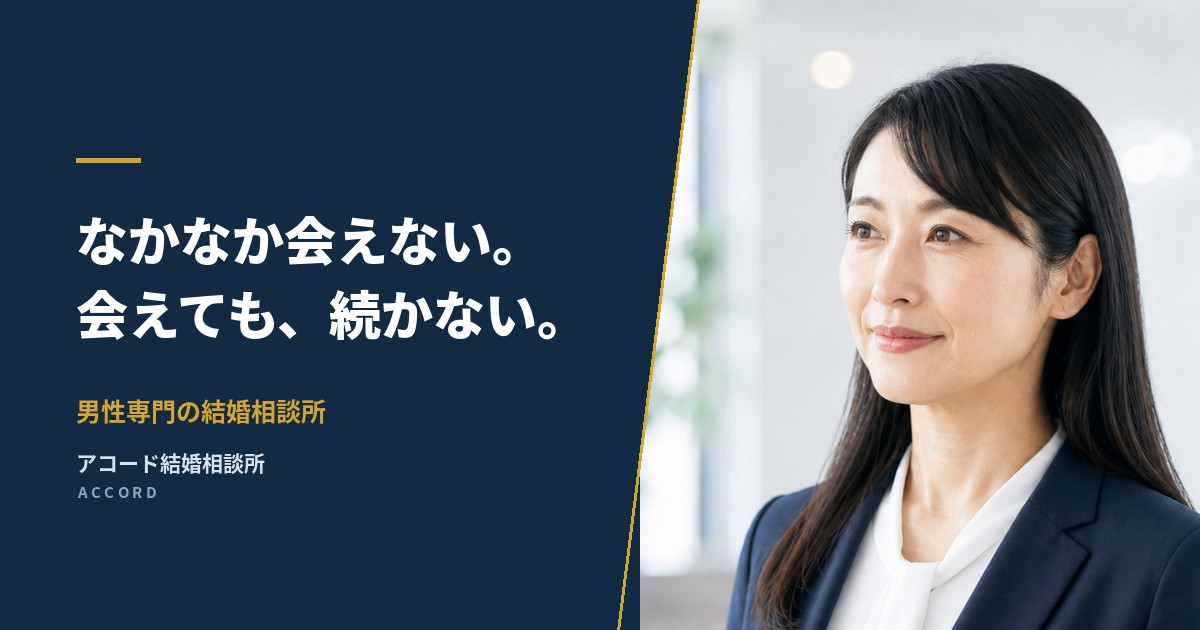
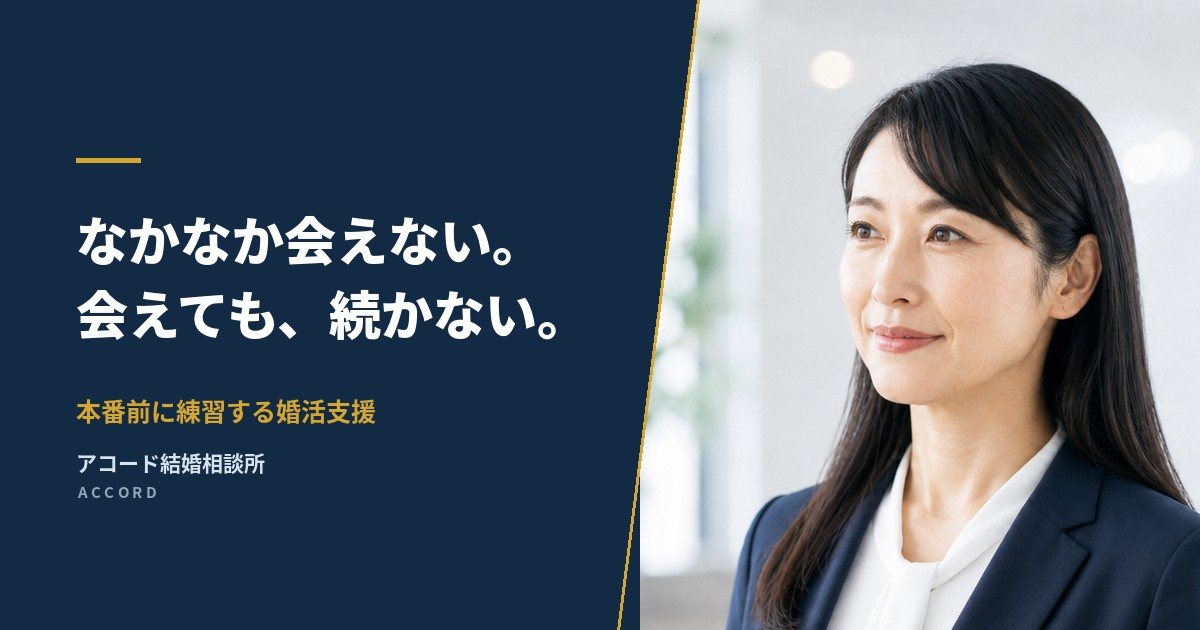
Add files via upload

Changed region(s): [[0.0617, 0.6333, 0.3392, 0.6937]]

diff --git a/index.html b/index.html
@@ -3,8 +3,8 @@
 <head>
 <meta charset="utf-8">
 <meta name="viewport" content="width=device-width, initial-scale=1">
-<title>男性専門の結婚相談所｜アコード結婚相談所</title>
-<meta name="description" content="男性専門の結婚相談所です。そもそも会えない、会えても次につながらない。IBJの会員ネットワークで結婚を考える相手との出会いを広げ、プロフィール・お見合い・LINE・デートを実践型プログラムで改善します。30分の無料相談をオンラインで実施しています。">
+<title>本番前に練習する婚活支援｜アコード結婚相談所</title>
+<meta name="description" content="実績のある実践型の婚活コーチングを行う結婚相談所です。そもそも会えない、会えても次につながらない。IBJの会員ネットワークで結婚を考える相手との出会いを広げ、プロフィール・お見合い・LINE・デートを実践型プログラムで改善します。30分の無料相談をオンラインで実施しています。">
 <link rel="canonical" href="{{公開URL}}">
 <meta name="robots" content="index, follow">
 
@@ -329,6 +329,7 @@ h3,.h3{font-size:var(--fs-h3);font-weight:700;line-height:var(--lh-h3);color:var
   background:var(--gold-soft);color:var(--navy-deep);font-size:12.5px;font-weight:700;
 }
 .hero__label i{font-style:normal;color:var(--gold-hover);font-weight:700}
+.hero__label .lbl-r{display:inline-flex;align-items:center;gap:8px}
 .hero h1{margin-bottom:24px}
 .hero__sub{font-size:calc(var(--fs-body) + 1px);font-weight:500;color:var(--t-body);line-height:1.85}
 .hero__sub + .hero__sub{margin-top:14px}
@@ -549,11 +550,44 @@ h3,.h3{font-size:var(--fs-h3);font-weight:700;line-height:var(--lh-h3);color:var
   margin-top:20px;padding:16px 18px;border-radius:12px;background:var(--white);
   border:1px solid var(--line);font-size:12.5px;line-height:1.8;color:var(--t-sub);
 }
-.bridge{
-  margin-top:26px;padding:20px 22px;border-radius:var(--card-r);
-  background:var(--navy-deep);color:var(--t-white);font-size:16px;font-weight:700;line-height:1.8;
+.eq{
+  margin-top:28px;padding:24px 20px;border-radius:var(--card-r);
+  background:var(--navy-deep);color:var(--t-white);
 }
-.bridge b{color:var(--gold)}
+@media (min-width:768px){ .eq{padding:28px 30px} }
+.eq__lead{
+  display:flex;align-items:center;justify-content:center;gap:10px;
+  font-size:13px;font-weight:700;letter-spacing:.1em;color:var(--gold-soft);margin-bottom:14px;
+}
+@media (min-width:768px){ .eq__lead{margin-bottom:18px} }
+.eq__lead i{font-style:normal;font-family:var(--font-en);font-size:17px;color:var(--gold)}
+
+.eq__row{display:grid;gap:6px}
+@media (min-width:768px){
+  .eq__row{display:flex;align-items:stretch;justify-content:center;gap:12px}
+}
+.eq__term{
+  display:flex;flex-direction:row;align-items:center;justify-content:center;gap:10px;
+  padding:12px 14px;border-radius:12px;text-align:center;
+  background:rgba(255,255,255,.08);border:1px solid rgba(255,255,255,.18);
+}
+@media (min-width:768px){
+  .eq__term{flex:1 1 0;min-width:0;flex-direction:column;gap:8px;padding:18px 14px}
+}
+.eq__term b{font-size:16px;font-weight:700;line-height:1.5;color:var(--t-white)}
+@media (min-width:768px){ .eq__term b{font-size:17px} }
+.eq__term span{
+  font-size:11.5px;font-weight:700;letter-spacing:.1em;color:var(--gold);
+  padding:2px 10px;border-radius:999px;background:rgba(213,166,47,.16);
+}
+.eq__x{
+  display:flex;align-items:center;justify-content:center;flex:none;line-height:1;
+  font-style:normal;font-family:var(--font-en);font-size:16px;font-weight:700;color:var(--gold);
+}
+.eq__note{
+  margin-top:16px;text-align:center;font-size:14.5px;line-height:1.8;color:#D5E2EE;
+}
+.eq__note b{color:var(--t-white)}
 
 .stats{display:grid;gap:16px;margin-bottom:36px}
 @media (min-width:640px){ .stats{grid-template-columns:1fr 1fr;gap:24px} }
@@ -946,7 +980,7 @@ h3,.h3{font-size:var(--fs-h3);font-weight:700;line-height:var(--lh-h3);color:var
     </div>
 
     <div class="hero__copy">
-      <p class="hero__label" data-ibj hidden><b>IBJ正規加盟店</b><i aria-hidden="true">&times;</i>男性専門の結婚相談所</p>
+      <p class="hero__label" data-ibj hidden><b>IBJ正規加盟店</b><span class="lbl-r"><i aria-hidden="true">&times;</i>本番前に練習する婚活支援</span></p>
 
       <h1>なかなか会えない。<br>会えても、続かない。</h1>
 
@@ -1094,7 +1128,17 @@ h3,.h3{font-size:var(--fs-h3);font-weight:700;line-height:var(--lh-h3);color:var
       <p>相手の結婚意思やプロフィール情報を一から確かめることに時間を使うのではなく、結婚を目指す相手との関係づくりに集中できる環境です。</p>
     </div>
 
-    <p class="bridge reveal"><b>IBJ</b>が出会いの機会を広げ、<b>アコード</b>が選ばれる準備と、会った後の関係づくりを支援します。</p>
+    <div class="eq reveal">
+      <p class="eq__lead">婚活の前進<i aria-hidden="true">＝</i></p>
+      <div class="eq__row">
+        <div class="eq__term"><b>出会いの機会</b><span>IBJ</span></div>
+        <i class="eq__x" aria-hidden="true">&times;</i>
+        <div class="eq__term"><b>選ばれるための準備</b><span>アコード</span></div>
+        <i class="eq__x" aria-hidden="true">&times;</i>
+        <div class="eq__term"><b>関係を育てる力</b><span>アコード</span></div>
+      </div>
+      <p class="eq__note">IBJが<b>出会いの機会</b>を広げ、アコードが<b>残りの2つ</b>を支援します。</p>
+    </div>
 
     <p class="src reveal">出典：IBJ公式サイト（<a href="https://www.ibjapan.jp/" target="_blank" rel="noopener">www.ibjapan.jp</a>）。登録会員数、加盟相談所数、お見合い成立数は2026年7月時点または同月実績。年間成婚者数は2025年実績。<br>ご利用いただける会員数やお見合い成立の可能性は、年齢、地域、希望条件等によって異なります。</p>
   </div>
@@ -1829,7 +1873,7 @@ h3,.h3{font-size:var(--fs-h3);font-weight:700;line-height:var(--lh-h3);color:var
           <svg width="26" height="26" viewBox="0 0 32 32" aria-hidden="true"><rect width="32" height="32" rx="7" fill="#1F3A5F"/><path d="M9 20.5c2.6-7 10.4-7 13 0" stroke="#D5A62F" stroke-width="2.4" fill="none" stroke-linecap="round"/></svg>
           <span class="logo-txt"><b>アコード結婚相談所</b><i>ACCORD</i></span>
         </p>
-        <p style="line-height:1.8">出会いを、関係に変える。<br>男性専門の結婚相談所です。会えない・続かない原因を見える化し、練習と実践で改善します。</p>
+        <p style="line-height:1.8">出会いを、関係に変える。<br>実践型の婚活コーチングを行う結婚相談所です。会えない・続かない原因を見える化し、練習と実践で改善します。</p>
 
         <p class="ft__base">
           <svg width="17" height="17" viewBox="0 0 24 24" fill="none" stroke="currentColor" stroke-width="1.8" stroke-linecap="round" stroke-linejoin="round" aria-hidden="true"><path d="M20 10.2c0 5.4-8 11.4-8 11.4s-8-6-8-11.4a8 8 0 0 1 16 0Z"/><circle cx="12" cy="10" r="2.8"/></svg>

diff --git a/README.md b/README.md
@@ -873,3 +873,152 @@ GA4の探索レポートで、**CASE A／CASE B のカードを見た人が、IB
 ### ご確認ください
 
 面談の追加やオプションで費用が発生する場合は、**その条件を特定商取引法に基づく表記に必ず記載してください。** LP上で追記が必要であればお知らせください。
+
+
+---
+
+## 29. 男女を絞らない方向への調整（v17）
+
+「見た目は男性向けのままだが、女性も受け入れる」方針に合わせ、**明示的に男性限定と読める3箇所**だけを変更しました。
+
+| 場所 | 変更前 | 変更後 |
+|---|---|---|
+| ヒーローの肩見出し | IBJ正規加盟店 × 男性専門の結婚相談所 | **IBJ正規加盟店 × 実績のある実践型婚活コーチング** |
+| メタディスクリプション 冒頭 | 男性専門の結婚相談所です。 | **実績のある実践型の婚活コーチングを行う結婚相談所です。** |
+| フッターの説明文 | 男性専門の結婚相談所です。 | **実践型の婚活コーチングを行う結婚相談所です。** |
+
+肩見出しは、折り返し時に「×」だけが行末に残らないよう、「×」と後半のテキストをひとまとまりにしています（375px以下では2行になります）。
+
+### そのまま残した「男性」の記述
+
+事実に基づく記述なので変更していません。「これまで男性向けの育成プログラムをやってきた」ことと、「いま男女どちらも受け入れる」ことは両立します。
+
+- 実績セクションの見出し「男性向け育成プログラムで、20数名を個別に指導してきました。」
+- 対象条件「交際経験がまったくない、またはほとんどない28歳から44歳の男性でした。」
+- 経歴「婚活サービスの運営会社で、男性向け育成プログラムの責任者を務めました。」
+- 注記「男性向け育成プログラムでの個別指導実績です。」
+- 事例3件（すべて男性）
+- 「向いていない方」の「女性を攻略する方法だけを求める方」
+
+### まだ「男性専門」が残っている2箇所（未変更）
+
+ご指示に含まれていなかったため、そのままにしています。
+
+| 場所 | 現在の表示 | 影響 |
+|---|---|---|
+| `<title>` | 男性専門の結婚相談所｜アコード結婚相談所 | **検索結果とブラウザのタブに表示されます。もっとも人目に触れる箇所です** |
+| `ogp.jpg` の中の文字 | 男性専門の結婚相談所 | SNSでシェアされたときのカード画像に表示されます |
+
+変更する場合の案です。
+
+- `<title>` → `実践型の婚活コーチング｜アコード結婚相談所`
+- `ogp.jpg` のゴールドの行 → `実践型の婚活コーチング`（画像の再作成が必要です）
+
+ご指示いただければ、どちらもすぐ差し替えます。
+
+
+---
+
+## 30. 訴求文言を確定（v18）
+
+「本番前に練習する婚活支援」で3箇所そろえました。**「男性専門」の記載はLP内から完全になくなりました。**
+
+| 場所 | 変更後 |
+|---|---|
+| ヒーローの肩見出し | IBJ正規加盟店 × **本番前に練習する婚活支援** |
+| `<title>` | **本番前に練習する婚活支援**｜アコード結婚相談所 |
+| `ogp.jpg` のゴールド行 | **本番前に練習する婚活支援** |
+
+肩見出しは360px以上で1行に収まります（320pxのみ2行）。**`ogp.jpg` も差し替えが必要です。**
+
+### 変更していない箇所
+
+- メタディスクリプション冒頭「実績のある実践型の婚活コーチングを行う結婚相談所です。」
+- フッターの説明文「実践型の婚活コーチングを行う結婚相談所です。」
+
+どちらも前版で性別表現を外した後の文言で、新しい肩見出しと矛盾しません。文言を「本番前に練習する」に揃えたい場合はお知らせください。
+
+---
+
+## 31. 「3つの要素」セクションについての検討結果
+
+marriage002 にあった「婚活を前へ進めるには、3つの要素が必要です。」のセクション（出会いの機会 × 選ばれるための準備 × 関係を育てる力）について、**現行LPへの追加は見送りを推奨**します。**未実装です。**
+
+### 見送りを推奨する理由
+
+**1. 結論部分が、すでに同じ文言でLPに存在します**
+
+IBJネットワークセクションの締めに、次の一文があります。
+
+> IBJが出会いの機会を広げ、アコードが選ばれる準備と、会った後の関係づくりを支援します。
+
+これは3要素セクションの締めとほぼ同一です。同じ結論を2回言うことになります。
+
+**2. 3要素のうち2つは、すでに「悩みのタイプ」で提示済みです**
+
+- 出会いの機会 → CASE「出会いの段階で止まっている」
+- 関係を育てる力 → CASE「関係づくりの段階で止まっている」
+
+読者は既に自分の位置を選んだあとなので、同じ分類をもう一度見せられる形になります。
+
+**3. 説明セクションが4つ続くことになります**
+
+現在は 悩みのタイプ → 問題の原因 → IBJネットワーク と、解決策に入る前に3つの説明が並んでいます。ここに4つ目を挟むと、Before/Afterまでの距離がさらに伸びます。デスクトップで約19,000px、スマホで約30,000pxある長いページなので、前半の説明を増やすのは離脱リスクが上がります。
+
+### ただし、1つだけ拾う価値があります
+
+3要素のうち**「選ばれるための準備」だけは、現行LPに独立した居場所がありません。** 写真・服装・プロフィール・申込み方針は、料金の説明（初期費用が高い理由）まで下がらないと出てきません。
+
+そこで、**新セクションは作らず、かけ算の式だけを1本の帯としてIBJネットワークセクションの締めと差し替える**案を提案します。
+
+```
+婚活の前進 ＝ 出会いの機会 × 選ばれるための準備 × 関係を育てる力
+        （IBJ）        （アコード）      （アコード）
+```
+
+- 追加される高さは約80px（新セクションなら約700px）
+- 「選ばれるための準備」が中盤で提示されるため、後半の初期費用の説明が腑に落ちやすくなります
+- 既存の締め文と入れ替えるので、重複は発生しません
+
+実装をご希望でしたらお知らせください。
+
+
+---
+
+## 32. かけ算の帯を実装（v19）
+
+IBJネットワークセクションの締めにあった一文を、**3要素のかけ算を表す帯**に差し替えました。**新しいセクションは作っていません。**
+
+### 差し替え前後
+
+**変更前**
+> IBJが出会いの機会を広げ、アコードが選ばれる準備と、会った後の関係づくりを支援します。
+
+**変更後**
+```
+              婚活の前進 ＝
+
+  [ 出会いの機会 ]  ×  [ 選ばれるための準備 ]  ×  [ 関係を育てる力 ]
+      IBJ                アコード              アコード
+
+    IBJが出会いの機会を広げ、アコードが残りの2つを支援します。
+```
+
+### 設計の意図
+
+- **各項目の下（スマホでは横）に担当をチップで表示**しました。「IBJ／アコード／アコード」と並ぶことで、**アコードの担当が2/3である**ことがひと目で伝わります。文章で読ませるより速く、印象にも残ります。
+- **かけ算（×）にしたのは意図的です。**足し算だと「どれか1つでも足りていれば前に進む」と読めますが、かけ算なら**1つでもゼロなら結果はゼロ**という含意になります。「出会いは増えたのに進まない」という読者の実感と一致します。
+- 締めの一文は残しました。「×」「＝」は装飾として `aria-hidden` にしているため、**スクリーンリーダー利用者に結論が伝わるようにする**役割も兼ねています。
+
+### レイアウト
+
+| 画面幅 | 表示 | 帯の高さ |
+|---|---|---|
+| 768px以上 | 横3列。項目名の下に担当チップ | 約246px |
+| 767px以下 | 縦3段。項目名と担当チップを1行に収めて圧縮 | 約371px（375px時） |
+
+新セクションとして追加した場合は約700px増えるところ、**差し替えのため実質の増加は約100〜230px**に収まっています。
+
+### 副次的な効果
+
+「選ばれるための準備」という言葉が中盤で登場するようになりました。これにより、後半の料金セクションで説明している**「初期費用が高い理由（写真・服装・プロフィール）」が、伏線を回収する形**になります。
